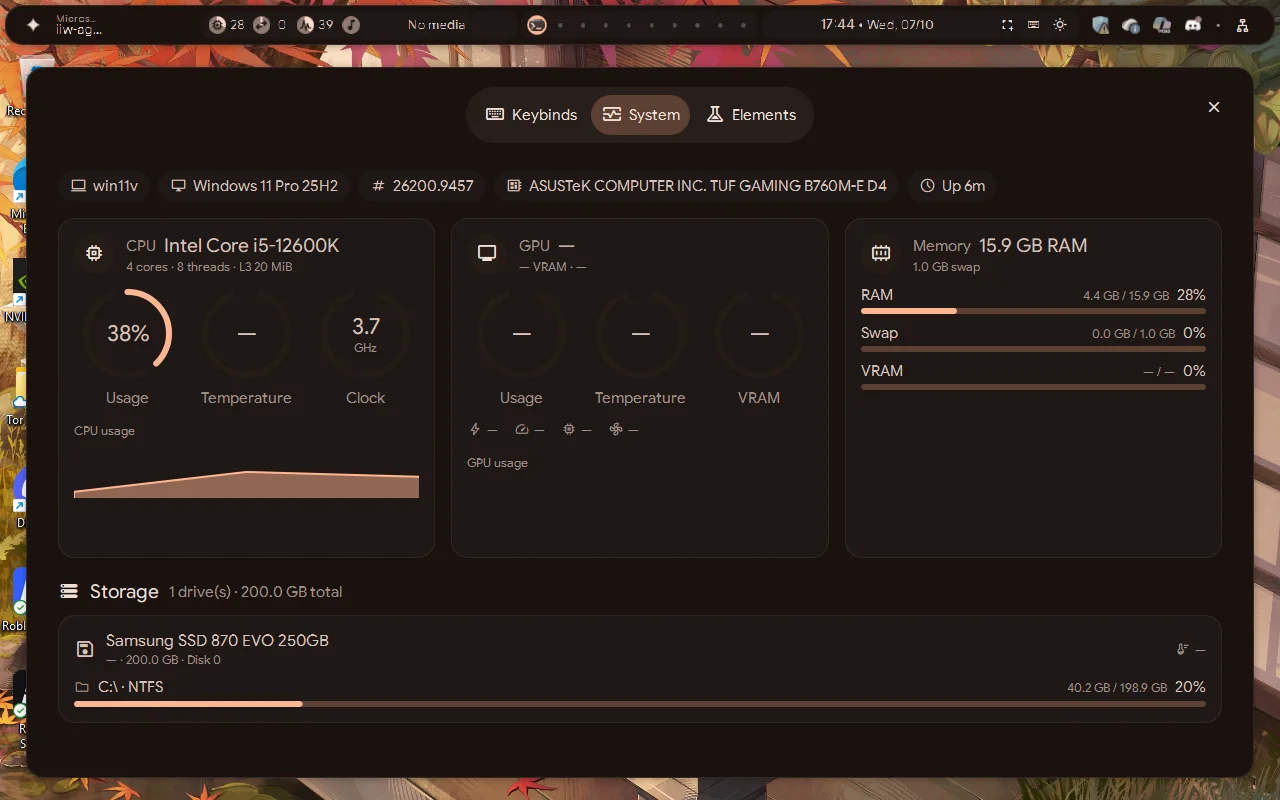
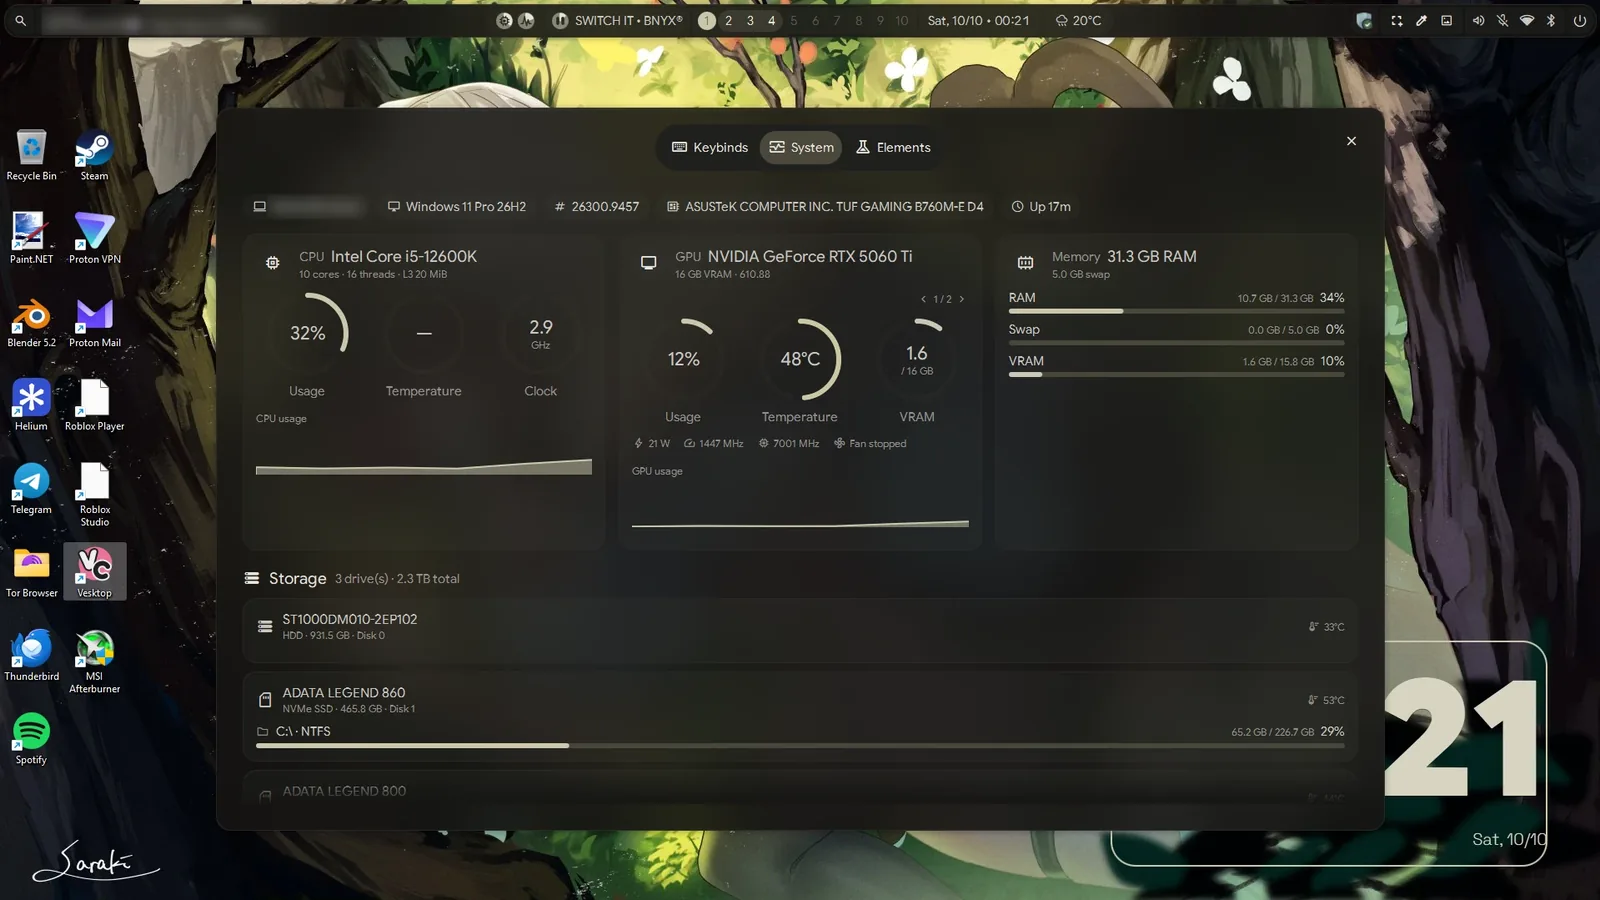
ii-windows: aba System num PC de verdade

diff --git a/filearchive/i18n/dict/home.js b/filearchive/i18n/dict/home.js
@@ -138,7 +138,7 @@ export const pt = {
   "p.ii-windows.link3": "Fork do Quickshell",
   "p.ii-windows.link4": "Fork do ii",
   "p.ii-windows.cap0": "As cores do ii tiradas do wallpaper do Windows; a taskbar só aparece na borda de baixo",
-  "p.ii-windows.cap1": "A aba System do cheatsheet: CPU, GPU, memória e discos, novidade da 0.6.0",
+  "p.ii-windows.cap1": "A aba System do cheatsheet num PC de verdade (Windows 11 26H2, RTX 5060 Ti): CPU, GPU, memória e discos, novidade da 0.6.0",
   "p.ii-windows.cap2": "Spotlight na tecla do Windows: apps, arquivos, ações do sistema, emoji e a área de transferência, novidade da 0.6.0",
   "p.ii-windows.cap3": "Tiling opcional: o layout dwindle do Hyprland nas áreas de trabalho virtuais do Windows, novidade da 0.4.0",
   "p.ii-windows.cap4": "O instalador: instala, atualiza, repara e desinstala, tudo por usuário, e desde a 0.9.0 a barra de título também mostra o nome do release",
@@ -149,7 +149,7 @@ export const pt = {
   "p.ii-windows.cap9": "Barra lateral direita: atalhos rápidos, notificações e calendário",
   "p.ii-windows.cap10": "Overview dos workspaces, no Win+Tab desde a 0.6.0",
   "p.ii-windows.alt0": "Desktop do Windows 11 com a barra e o relógio do ii, coloridos a partir de um wallpaper de anime",
-  "p.ii-windows.alt1": "O cheatsheet do ii na aba System, com os dados do host, medidores de CPU, GPU e memória e os discos",
+  "p.ii-windows.alt1": "O cheatsheet do ii na aba System, rodando num PC de verdade com uma RTX 5060 Ti: dados do host, medidores de CPU, GPU e memória e os discos",
   "p.ii-windows.alt2": "A busca Spotlight do ii mostrando os apps instalados com os ícones deles",
   "p.ii-windows.alt3": "Quatro janelas do Bloco de Notas organizadas pelo tiling do ii no layout dwindle do Hyprland, embaixo da barra do ii",
   "p.ii-windows.alt4": "A página de boas-vindas do instalador do ii-windows, já instalado na 0.9.0, com a versão e o nome do release na barra de título",

diff --git a/index.html b/index.html
@@ -2806,7 +2806,7 @@
             ],
             images: [
               { src: "./filearchive/projects/ii-windows/themed.webp", w: 1600, h: 900, alt: "Windows 11 desktop with the ii bar and clock, colored from an anime wallpaper", caption: "ii's colors taken from the Windows wallpaper; the taskbar only shows up at the bottom edge" },
-              { src: "./filearchive/projects/ii-windows/system.webp", w: 1280, h: 800, alt: "ii's cheatsheet on the System tab, with host details, CPU, GPU and memory gauges and the drives", caption: "The cheatsheet's System tab: CPU, GPU, memory and drives, new in 0.6.0" },
+              { src: "./filearchive/projects/ii-windows/system.webp", w: 1600, h: 900, alt: "ii's cheatsheet on the System tab, running on a real PC with an RTX 5060 Ti: host details, CPU, GPU and memory gauges and the drives", caption: "The cheatsheet's System tab on a real PC (Windows 11 26H2, RTX 5060 Ti): CPU, GPU, memory and drives, new in 0.6.0" },
               { src: "./filearchive/projects/ii-windows/spotlight.webp", w: 900, h: 600, alt: "ii's Spotlight search showing the installed apps with their icons", caption: "Spotlight on the Windows key: apps, files, system actions, emoji and the clipboard, new in 0.6.0" },
               { src: "./filearchive/projects/ii-windows/tiling.webp", w: 1024, h: 768, alt: "Four Notepad windows arranged by ii's tiling in Hyprland's dwindle layout, under ii's bar", caption: "Optional tiling: Hyprland's dwindle layout on Windows' virtual desktops, new in 0.4.0" },
               { src: "./filearchive/projects/ii-windows/installer.webp", w: 980, h: 660, alt: "The ii-windows setup's Welcome page, already installed at 0.9.0, with the version and release name in the title bar", caption: "The setup: install, update, repair and uninstall, all per user, and since 0.9.0 the title bar shows the release name too" },

diff --git a/filearchive/i18n/dict/illogicalwindows.js b/filearchive/i18n/dict/illogicalwindows.js
@@ -189,8 +189,8 @@ export const pt = {
   "iw.gallery.tiling.caption": "Tiling opcional: o layout dwindle do Hyprland nas áreas de trabalho virtuais do Windows, novidade na 0.4.0.",
   "iw.gallery.styles.alt": "A barra do ii com os números das áreas de trabalho e o cartão de configurações do end4-pC aberto sobre um papel de parede de anime",
   "iw.gallery.styles.caption": "O estilo end4-pC, novidade da 0.7.0: o cartão de configurações dele, os números nas áreas de trabalho e o seletor de cor na barra.",
-  "iw.gallery.system.alt": "O cheatsheet do ii na aba System, com os dados do host, medidores de CPU, GPU e memória e os discos",
-  "iw.gallery.system.caption": "A nova aba System do cheatsheet: CPU, GPU, memória e discos, novidade da 0.6.0.",
+  "iw.gallery.system.alt": "O cheatsheet do ii na aba System, rodando num PC de verdade com uma RTX 5060 Ti: dados do host, medidores de CPU, GPU e memória e os discos",
+  "iw.gallery.system.caption": "A aba System do cheatsheet num PC de verdade (Windows 11 26H2, RTX 5060 Ti): CPU, GPU, memória e discos, novidade da 0.6.0.",
   "iw.gallery.spotlight.alt": "A busca Spotlight do ii mostrando os apps instalados com os ícones deles",
   "iw.gallery.spotlight.caption": "Spotlight na tecla do Windows: apps, arquivos, ações do sistema, emoji e a área de transferência, novidade da 0.6.0.",
   "iw.gallery.sidebar.alt": "Painel lateral direito do ii aberto com atalhos rápidos, notificações e um calendário",

diff --git a/apps/illogicalwindows/index.html b/apps/illogicalwindows/index.html
@@ -1664,9 +1664,9 @@
 						</figure>
 						<figure>
 							<a href="../../filearchive/projects/ii-windows/system.webp" target="_blank" rel="noopener">
-								<img src="../../filearchive/projects/ii-windows/system.mid.webp" width="1000" height="625" loading="lazy" decoding="async" alt="ii's cheatsheet on the System tab, with host details, CPU, GPU and memory gauges and the drives" data-i18n-attr="alt:iw.gallery.system.alt" />
+								<img src="../../filearchive/projects/ii-windows/system.mid.webp" width="1000" height="563" loading="lazy" decoding="async" alt="ii's cheatsheet on the System tab, running on a real PC with an RTX 5060 Ti: host details, CPU, GPU and memory gauges and the drives" data-i18n-attr="alt:iw.gallery.system.alt" />
 							</a>
-							<figcaption data-i18n="iw.gallery.system.caption">The cheatsheet's new System tab: CPU, GPU, memory and drives, new in 0.6.0.</figcaption>
+							<figcaption data-i18n="iw.gallery.system.caption">The cheatsheet's System tab on a real PC (Windows 11 26H2, RTX 5060 Ti): CPU, GPU, memory and drives, new in 0.6.0.</figcaption>
 						</figure>
 						<figure>
 							<a href="../../filearchive/projects/ii-windows/spotlight.webp" target="_blank" rel="noopener">
